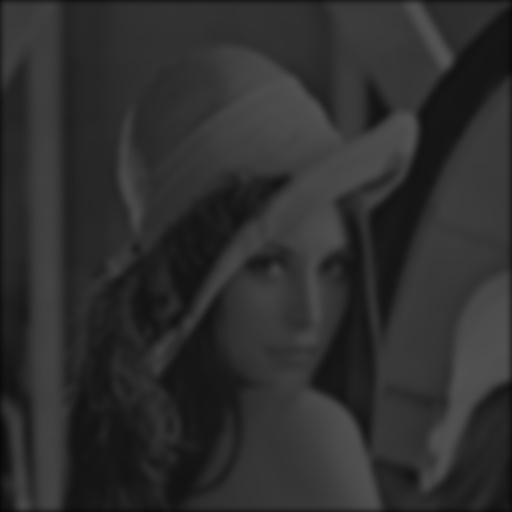
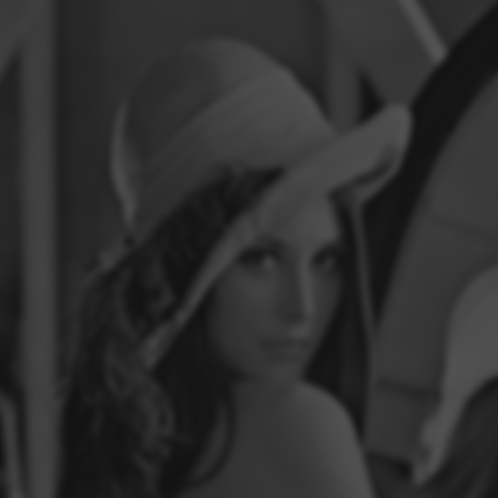
Gaussian is now mine, still dark

diff --git a/Assignment1.py b/Assignment1.py
@@ -15,9 +15,9 @@ def getImage(filename):
 
 # shows two images with custom labels
 def imageComparison(left, leftLabel, right, rightLabel):
-    plt.subplot(121),plt.imshow(left, cmap="gray"),plt.title(leftLabel)
+    plt.subplot(121),plt.imshow(left),plt.title(leftLabel)
     plt.xticks([]), plt.yticks([])
-    plt.subplot(122),plt.imshow(right, cmap="gray"),plt.title(rightLabel)
+    plt.subplot(122),plt.imshow(right),plt.title(rightLabel)
     plt.xticks([]), plt.yticks([])
     plt.show()
 
@@ -123,8 +123,8 @@ def customBoxFilter(image):
     return np.asarray(blur)
 
 # ----------------------------------- Gaussian Filters------------------------------------------------ #
-def cvGaussianFilter(image):
-    return cv.GaussianBlur(image, (15,15), 0)
+def cvGaussianFilter(image, size=15):
+    return cv.GaussianBlur(image, (size,size), 0)
 
 def customGaussianFilter(image, kernelSize):
     
@@ -148,7 +148,52 @@ def customGaussianFilter(image, kernelSize):
         return kernel_2D
 
     kernel = gaussian_kernel(kernelSize, sigma=math.sqrt(kernelSize))
-    return convolution(image, kernel)
+
+    def GaussianSquare(arr, kernel):
+        sum = 0
+        for i in range(kernel.shape[0]):
+            for j in range(kernel.shape[0]):
+                sum += arr[i][j][0]*kernel[i][j]
+        return sum // (kernel.shape[0] ** 2)
+    
+    # Setup the Kernel, blur, and indicies
+    currSquare = []
+    currSquare_row = []
+
+    blur_row = []
+    blur = []
+
+    rows = len(image)
+    cols = len(image[0])
+
+    row, col = 0, 0
+
+    while row <= rows - kernelSize:
+        while col <= cols - kernelSize:
+
+            for i in range(row, row + kernelSize):
+
+                for j in range(col, col + kernelSize):
+
+                    currSquare_row.append(image[i][j])
+
+                currSquare.append(np.asarray(currSquare_row))
+                currSquare_row = []
+
+            avg = GaussianSquare(currSquare, kernel)
+            blur_row.append(np.asarray([avg, avg, avg]))
+            currSquare = []
+
+            col += 1
+        
+        blur.append(np.asarray(blur_row))
+        blur_row = []
+
+        row += 1
+        col = 0
+    
+    return np.asarray(blur)
+    # return convolution(image, kernel)
 
 # ----------------------------------- Motion Blur ------------------------------------------------ #
 # Generate the Motion Kernel
@@ -210,10 +255,13 @@ def customMotionFilter(image, size):
     
     return np.asarray(blur)
 
+# ----------------------------------- Laplace Sharpening ------------------------------------------------ #
+def cvLaplaceFilter(image):
+    print()
 image = getImage('lena_gray.bmp')
 
 Boxing = False
-Gausing = False #come back to this later, image on write darker than it should be, looks fine otherwise
+Gausing = True #come back to this later, image on write darker than it should be, looks fine otherwise
 Motion = False
 Laplace = False
 CannyE = False
